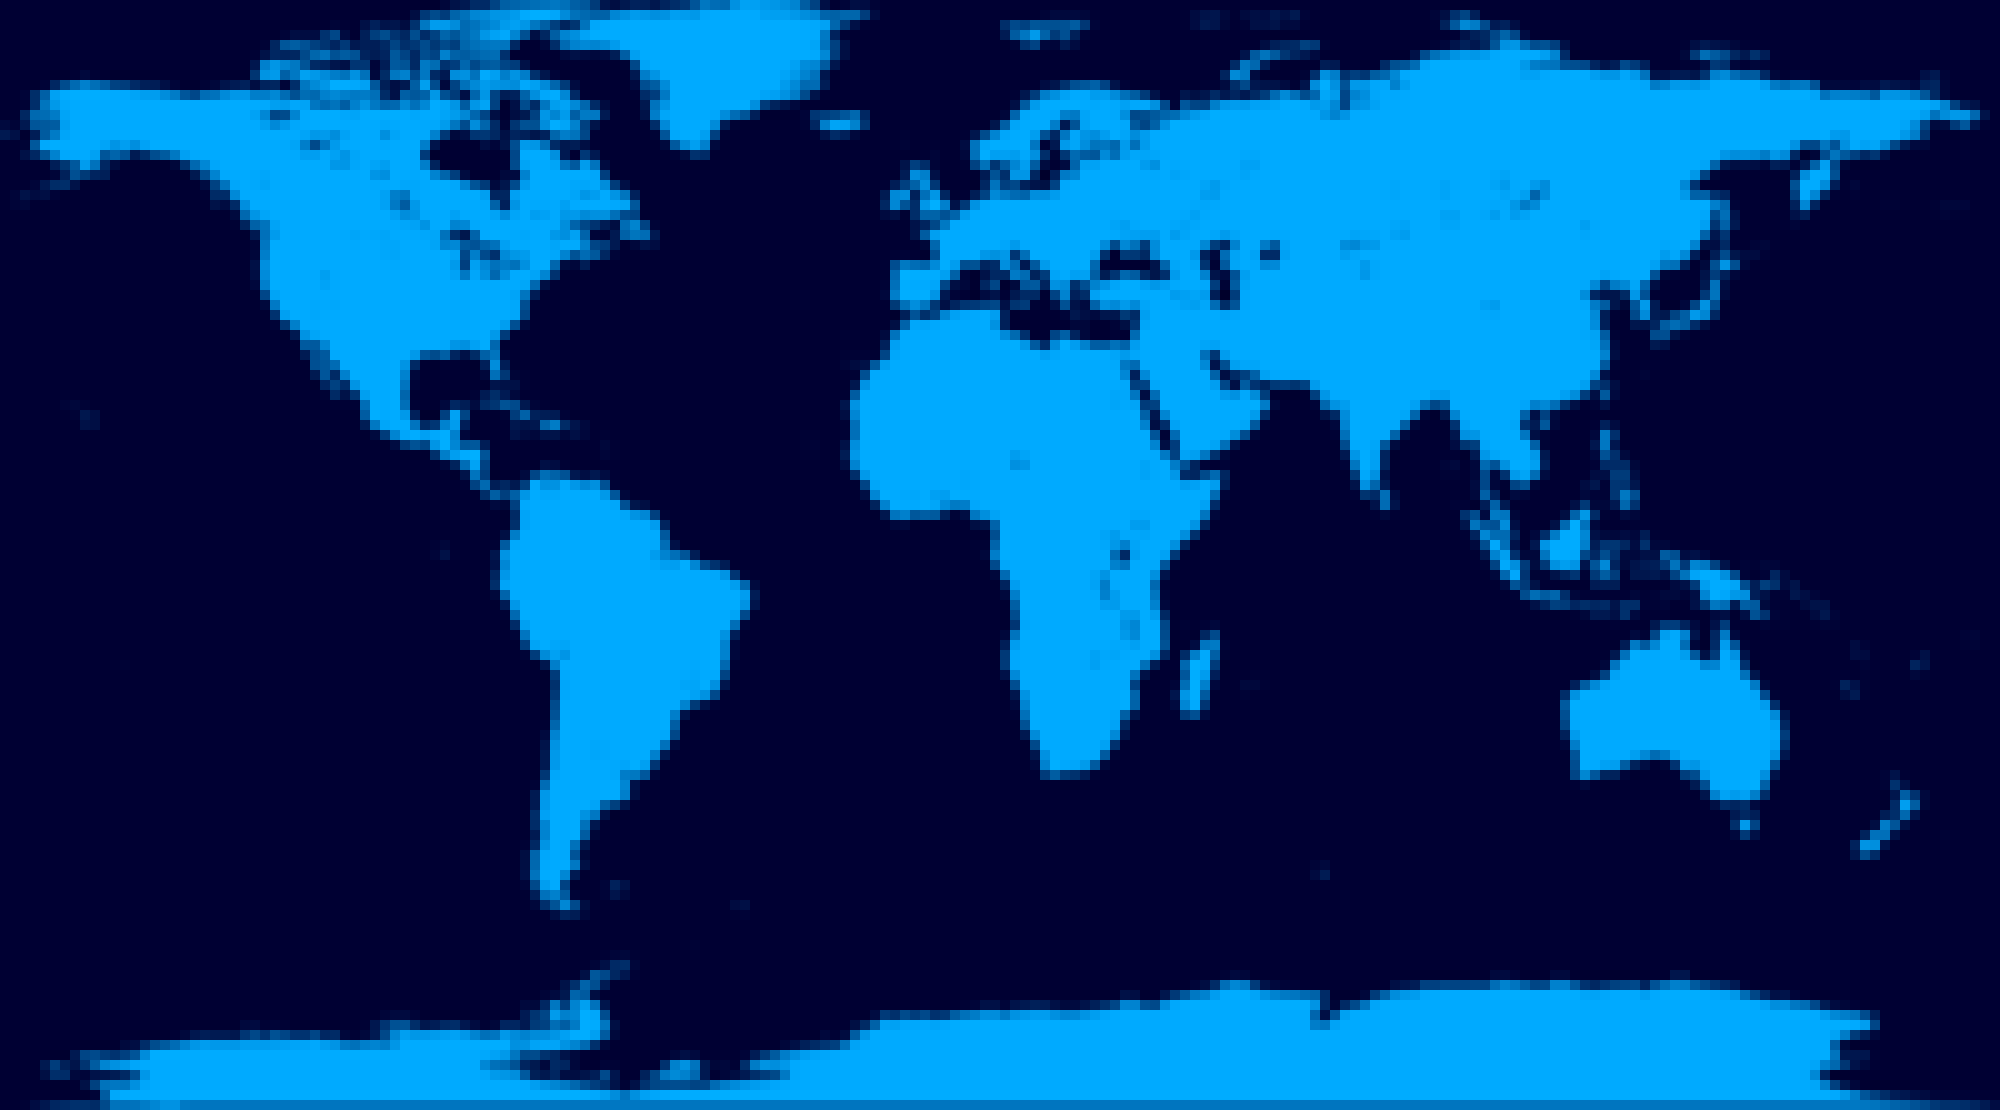
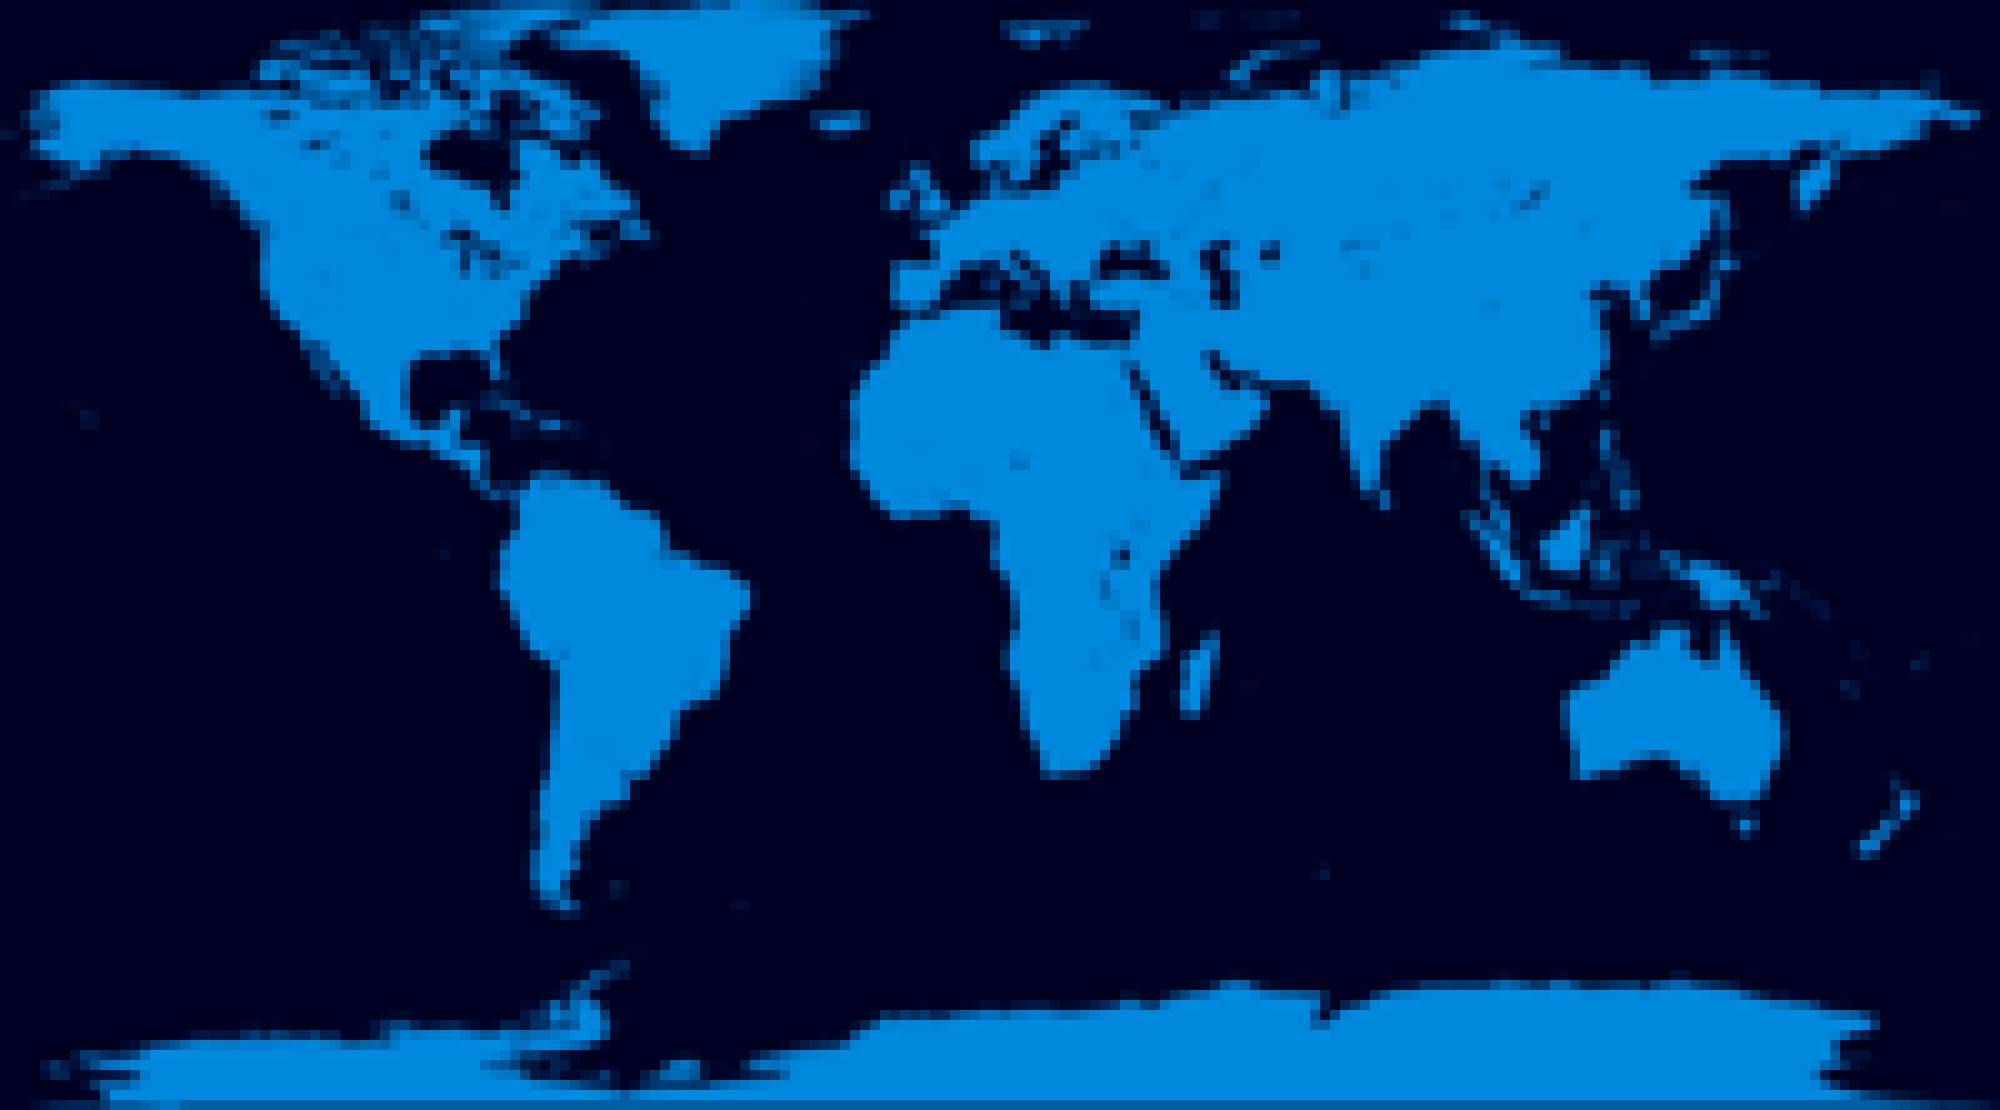
Generate new map. Slightly darker. Also, remove linear-gradient because we know how to edit graphics.

diff --git a/client/src/App.css b/client/src/App.css
@@ -9,8 +9,7 @@ html, body, #react-root
 
 body {
     font-family: Arial, sans-serif;
-    /* the "linear-gradient to darken image" trick is from: https://stackoverflow.com/a/26621579 */
-    background-image: linear-gradient(rgba(0, 0, 0, 0.8), rgba(0, 0, 0, 0.8)), url('map.png');
+    background-image: url('map.png');
     background-size: cover;
     color: white;
 }
